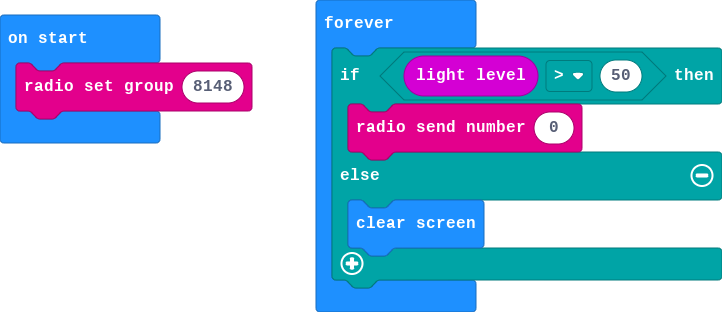
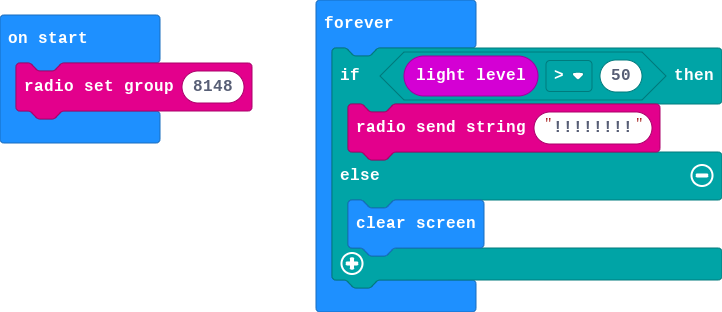
Update main.blocks, main.ts

Changed region(s): [[0.7618, 0.3173, 0.9141, 0.4904], [0.6399, 0.375, 0.7313, 0.4327]]

diff --git a/main.ts b/main.ts
@@ -5,7 +5,7 @@ enum RadioMessage {
 radio.setGroup(8148)
 basic.forever(function () {
     if (input.lightLevel() > 50) {
-        radio.sendNumber(0)
+        radio.sendString("!!!!!!!!")
     } else {
         basic.clearScreen()
     }
